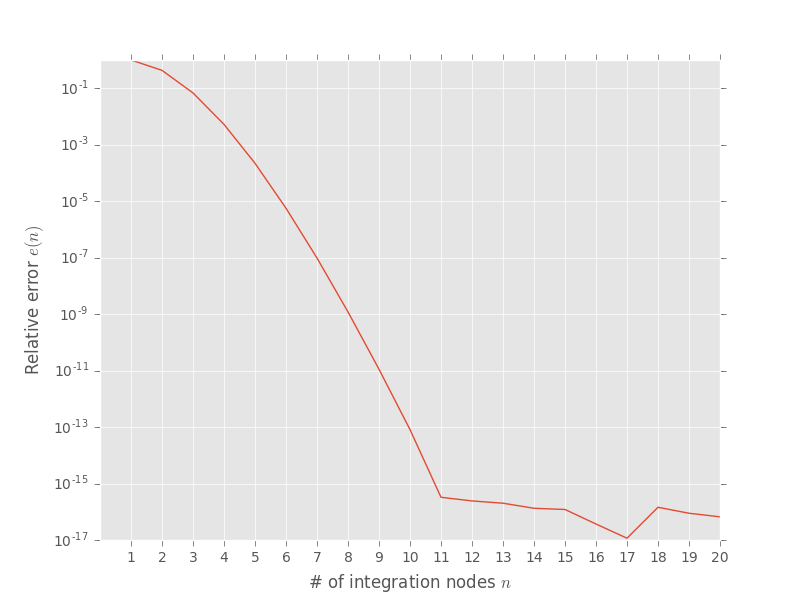
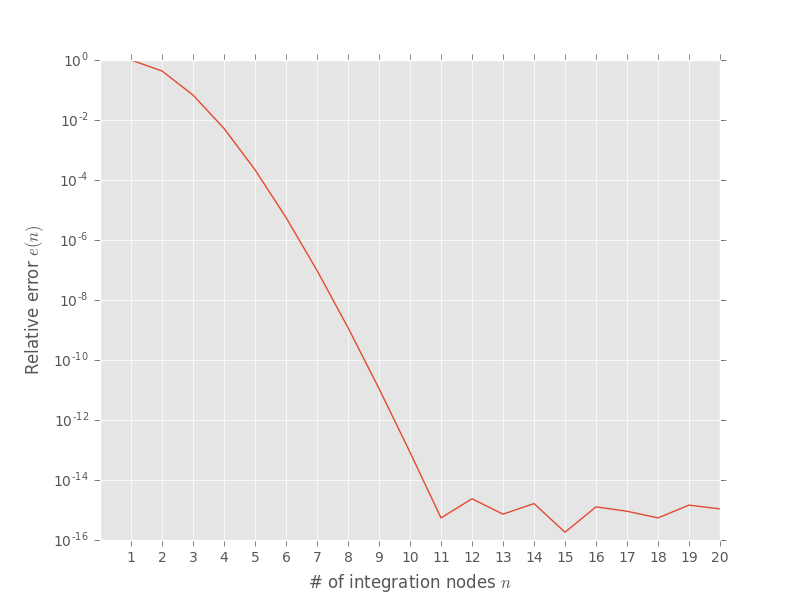
Ferdig med progarmmeringen i oppg. 1. Endringene var at vi nå bruker relasjoner fra spectral methods for å regne ut de deriverte av Lgenedrepolynomet, som gjør at det går raskere. Har endret dette i rapporten. Skal bytte ut figurene med de nye, siden disse ble alle kontinuerlige

diff --git a/Gauss_Legendre.py b/Gauss_Legendre.py
@@ -4,9 +4,7 @@ import sys
 import numpy as np
 from math import *
 ################################################################################
-# from decimal import *
-# getcontext().prec = 28
-ERRORTOL = 1e-14
+ERRORTOL = 1e-15
 EPS = 1e-20
 ITERATIONCAP = 100
 
@@ -20,84 +18,95 @@ def XML_Extraction(xmlfile):
 def Gauss_Legendre_Data(n):
     assert(n > 0)
     # find the n roots of L_{n}(x). Since the roots are symmetric about x = 0,
-    # we only need to calculate the floor(n / 2) roots in (0, 1]. This
-    # also reduces the required calculations for the weights
+    # we only need to calculate the floor(n / 2) roots in (0, 1]. This also 
+    # applies to the corresponding weights
     
     guess = [ ( np.cos((2 * i - 1) * np.pi / (2 * n + 1)) + np.cos(2 * i * np.pi / (2 * n + 1)) ) / 2 for i in range(1, int(np.floor(n / 2)) + 1) ]
-    xi = [ Olver(n, x_0) for x_0 in guess ]
-    # the weights
-    weights = [ 2 / ((1 - x**2) * Legendre_1(n, x, Legendre_0(n, x))[-1]**2) for x in xi ]
-    # the roots to the left of x = 0
-    xi_left = [-x for x in xi]
-    xi = xi + xi_left
-    # the weights
+    
+    xi = []
+    weights = []
+    for x0 in guess:
+        # we keep the already computed derivatives
+        x, L1_x = Olver(n, x0)
+        xi.append(x)
+        weights.append(2 / ((1 - x**2) * L1_x**2))
+    # by the symmertri
+    xi += [ -x for x in xi ]
     weights += weights
     if n % 2 != 0:
         xi.append(0)
-        weights.append( 2 / (Legendre_1(n, 0, Legendre_0(n, 0))[-1]**2) )
+        weights.append( 2 / (Legendre_1(n, 0, Legendre_0(n, 0))**2) )
     
     return [xi, weights]
 
 def Olver(n, x0):
-    x = x0
+    x = np.float(x0)
     for i in range(ITERATIONCAP):
-        L0_x = Legendre_0(n, x)
-        L1_x = Legendre_1(n, x, L0_x)
-        L2_x = Legendre_2(n, x, L1_x)
+        L0 = Legendre_0(n, x)
+        L0_x = L0[-1]
+        L1_x = Legendre_1(n, x, L0)
+        L2_x = Legendre_2(n, x, L0_x, L1_x)
         
-        L0 = L0_x[-1]
-        L1 = L1_x[-1]
-        L2 = L2_x[-1]
-        
-        assert(np.abs(L1) > EPS)
-        delta_x = -L0 / L1 - L2 * L0**2 / (2 * L1**3)
+        # assert(np.abs(L1_x) > EPS)
+        delta_x = -L0_x / L1_x - L2_x * L0_x**2 / (2 * L1_x**3)
         x += delta_x
         
         if (np.abs(delta_x) < ERRORTOL):
-            return x
+            return x, L1_x
             
     assert(False)
+    # if this assert triggers please decrease
+    # ERRORTOL or increase ITERATIONCAP
 
 def Legendre_0(n, x):
     if n == 0:
-        return [1]
+        return np.array([1])
     if x == -1:
-        return [(-1)**i for i in range(n + 1)]
+        return np.array([(-1)**i for i in range(n + 1)])
     if x == 1:
-        return [1] * (n + 1)
+        return np.ones(n + 1)
     # result = [ L_0(x), L_1(x), ..., L_n(x) ]
-    result = [1, x]
+    
+    result = np.zeros(n + 1)
+    result[0] = 1
+    result[1] = x
+    
     for i in range (2, n + 1):
-        result.append( ((2 * i - 1) * x * result[i - 1] - (i - 1) * result[i - 2]) / i )
+        result[i] = ((2 * i - 1) * x * result[i - 1] - (i - 1) * result[i - 2]) / i
+        
     return result
 
 def Legendre_1(n, x, L0):
     if n == 0:
-        return [0]
+        return 0
+    if n == 1:
+        return 1
     if x == -1:
-        return [-i * (-1)**i * (i + 1) / 2 for i in range (n + 1)]
+        return -n * (-1)**n * (n + 1) / 2
     if x == 1:
-        return [i * (i + 1) / 2 for i in range (n + 1)]
-    # result = [ L_0'(x), L_1'(x), ..., L_n'(x) ]
-    result = [0, 1]
-    for i in range (2, n + 1):
-        result.append( ( (2 * i - 1) * (L0[i - 1] + x * result[i - 1]) - (i - 1) * result[i - 2] ) / i )
-    return result
+        return n * (n + 1) / 2
+    
+    if n % 2 == 0:
+        indices = np.arange(1, n, step = 2)
+    else:
+        indices = np.arange(0, n, step = 2)
+        
+    return np.sum( (2 * indices + 1) * L0[indices] )
 
-def Legendre_2(n, x, L1):
-    if n == 0:
-        return [0]
-    # case x == +-1 (?)
-    # result = [ L_0''(x), ..., L_n''(x) ]
-    result = [0, 0]
-    for i in range (2, n + 1):
-        result.append( ( (2 * i - 1) * (2 * L1[i - 1] + x * result[i - 1]) - (i - 1) * result[i - 2] ) / i )
-    return result
+def Legendre_2(n, x, L0_x, L1_x):
+    if n <= 1:
+        return 0
+    if x == -1:
+        return (-1)**n * (n - 1) * n * (n + 1) * (n + 2) / 8
+    if x == 1:
+        return (n - 1) * n * (n + 1) * (n + 2) / 8
+    
+    return (2 * x * L1_x - n * (n + 1) * L0_x) / (1 - x * x)
     
 
 def Gauss_Legendre_Quadrature(n, G, f):
     assert(n > 0)
-    result = 0
+    result = 0.
     for i in range(n):
         result += G[1][i] * f(G[0][i]) 
     return result
@@ -109,13 +118,4 @@ def Return_Quadrature(xmlfile, n):
     G = Gauss_Legendre_Data(n) 
     numeric = Gauss_Legendre_Quadrature(n, G, data[0])
     analytic = data[1]
-    
     return [numeric, analytic]
-
-"""for i in range (1, 20 + 1):
-    guess = [ ( np.cos((2 * j - 1) * np.pi / (2 * i + 1)) + np.cos(2 * j * np.pi / (2 * i + 1)) ) / 2 for j in range(1, int(np.floor(i / 2)) + 1) ]
-    for x in guess:
-        xi = Olver(i, x)
-        assert(Legendre_0(i, xi)[-1] < ERRORTOL)"""
-
-
